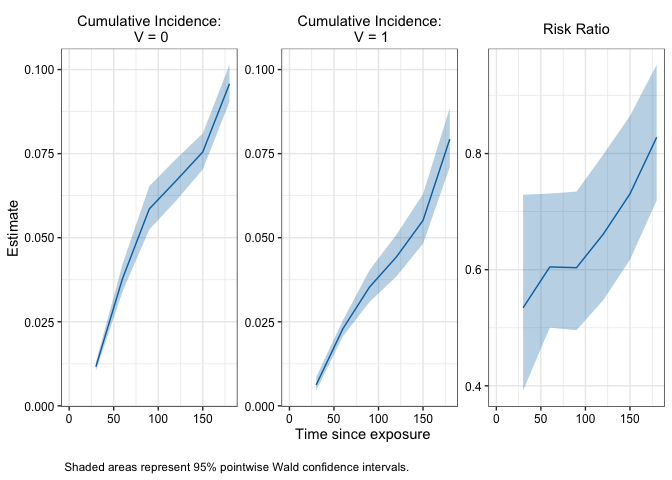
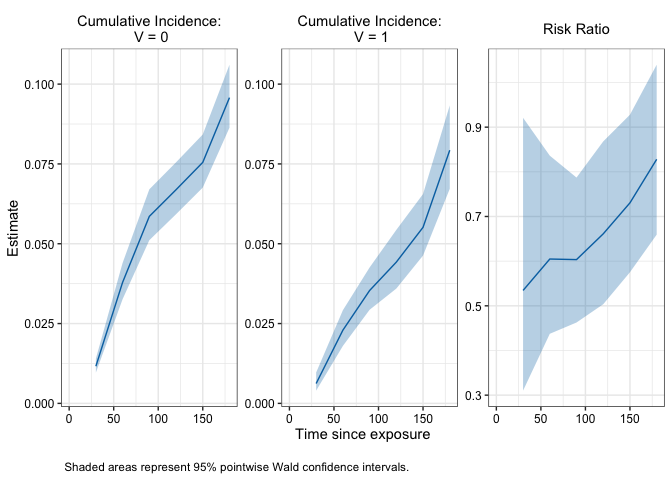
add DOI to README

diff --git a/README.md b/README.md
@@ -3,6 +3,8 @@
 
 # R/`nomatch`
 
+[![DOI](https://zenodo.org/badge/930366888.svg)](https://doi.org/10.5281/zenodo.19039291)
+
 > A matching alternative for more efficiently evaluating effectiveness
 > of interventions using observational data
 
@@ -95,12 +97,12 @@ fit
 #> 
 #> Result:
 #>   Timepoint Estimate 95% Wald CI: Lower 95% Wald CI: Upper Wald p-value
-#> 1        30    0.534              0.392              0.729     3.30e-03
-#> 2        60    0.605              0.500              0.731     4.49e-05
-#> 3        90    0.603              0.496              0.735     7.66e-05
-#> 4       120    0.661              0.548              0.798     4.24e-04
-#> 5       150    0.731              0.617              0.865     1.77e-03
-#> 6       180    0.828              0.719              0.953     1.65e-02
+#> 1        30    0.534              0.310              0.921     0.024016
+#> 2        60    0.605              0.437              0.836     0.002347
+#> 3        90    0.603              0.463              0.787     0.000195
+#> 4       120    0.661              0.504              0.868     0.002896
+#> 5       150    0.731              0.575              0.928     0.010058
+#> 6       180    0.828              0.659              1.040     0.104331
 #> 
 #> Use summary() for more details
 #> Use plot() to visualize results
